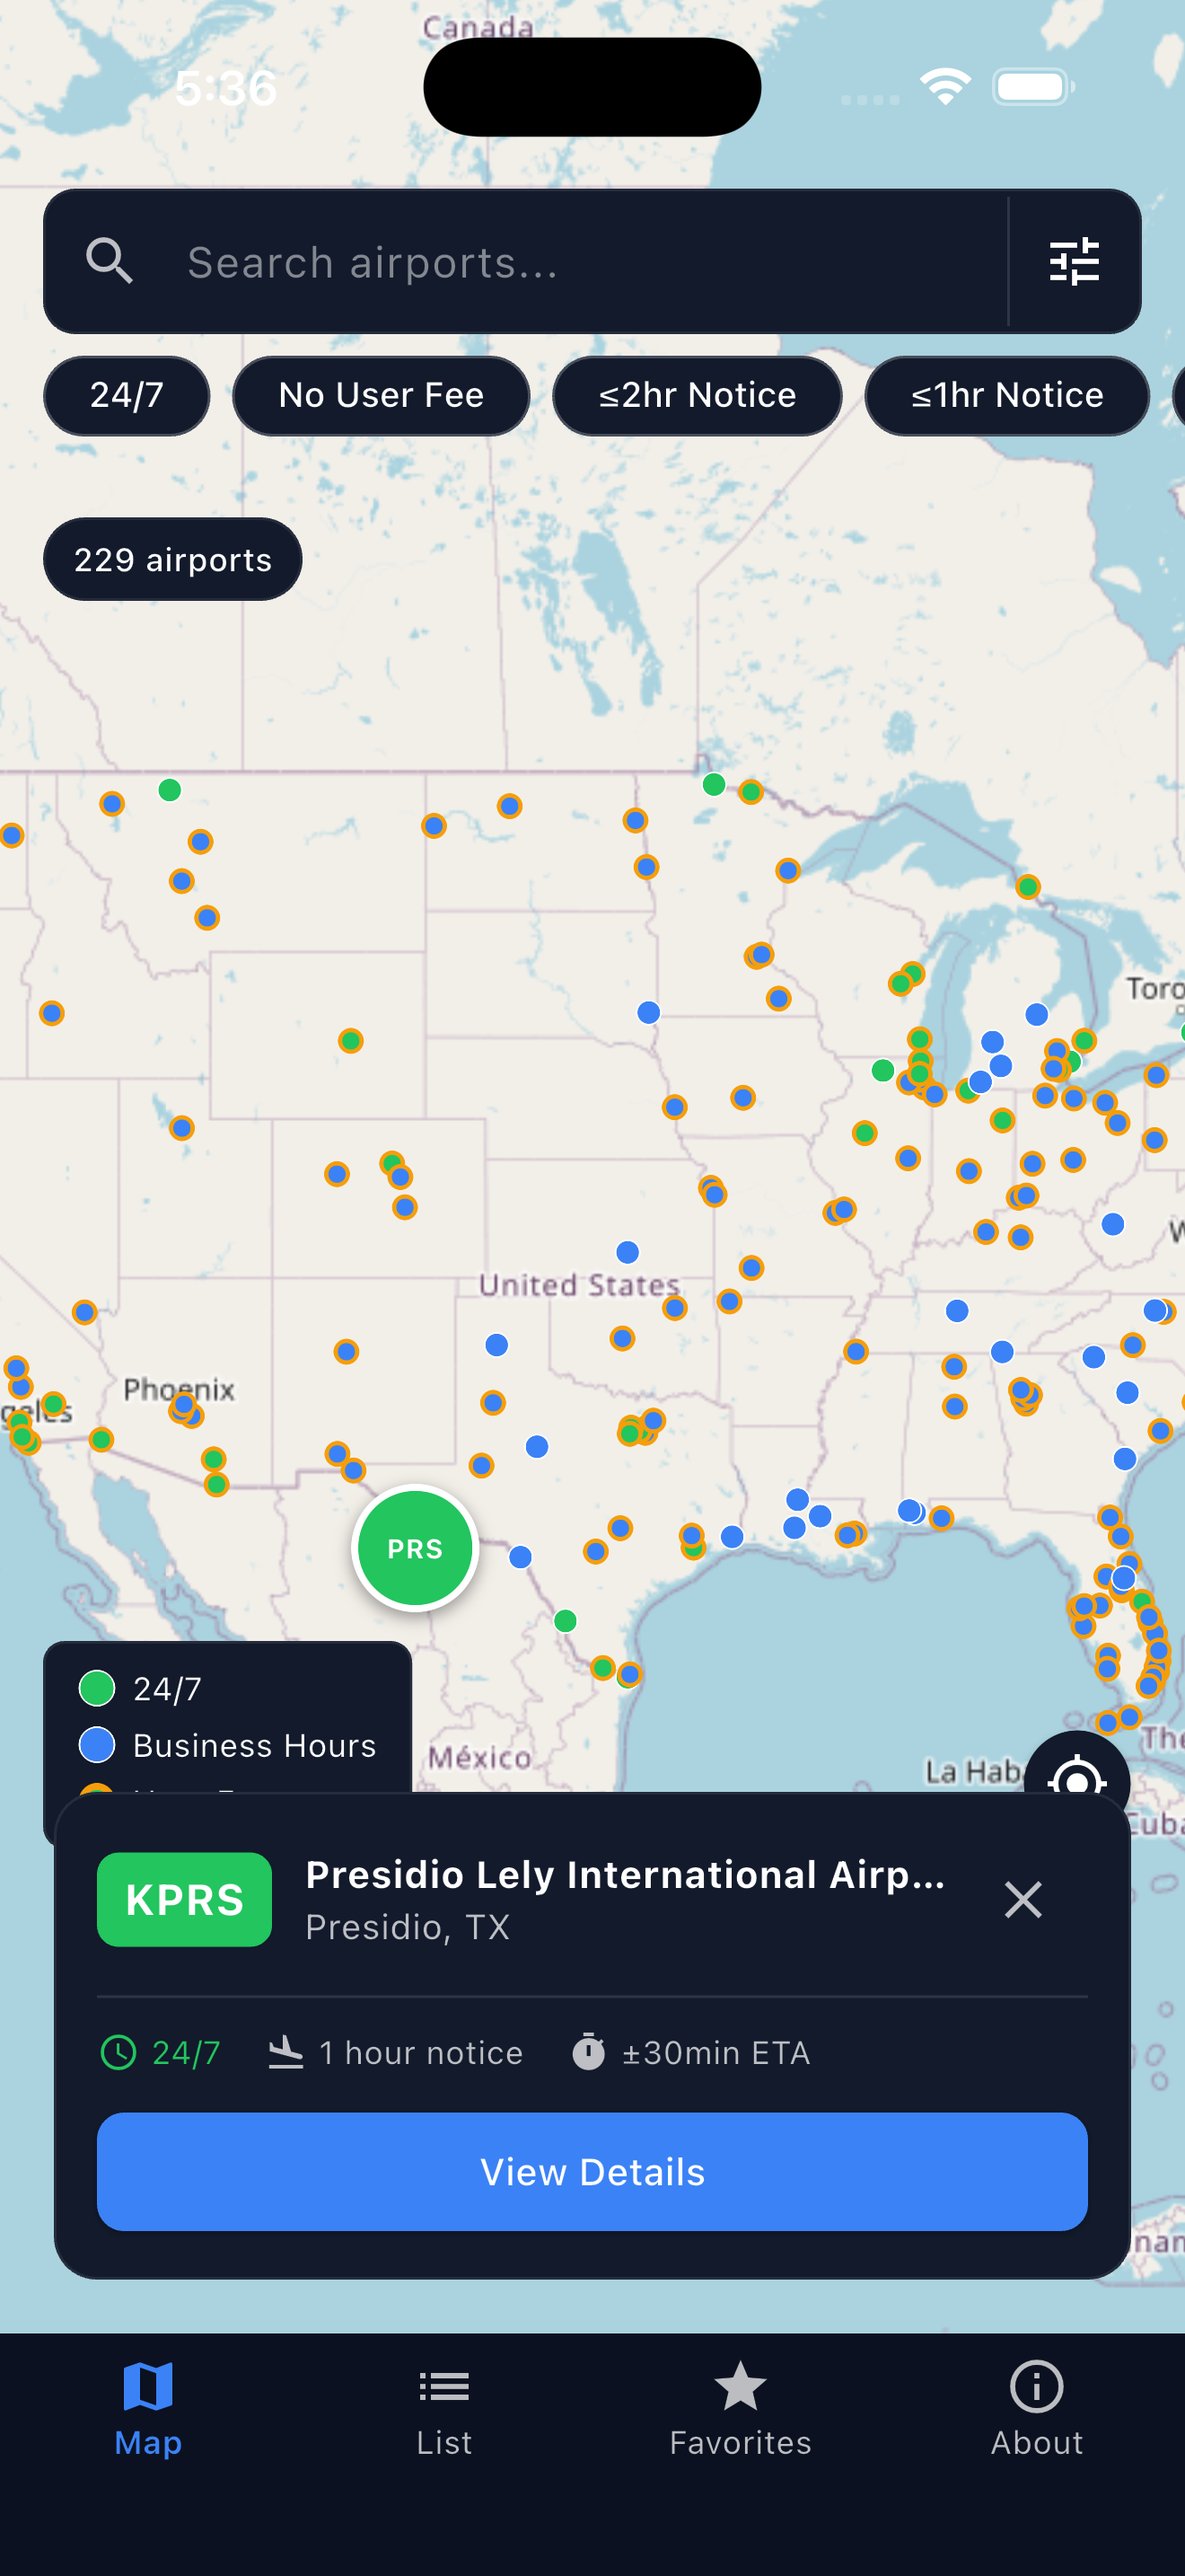
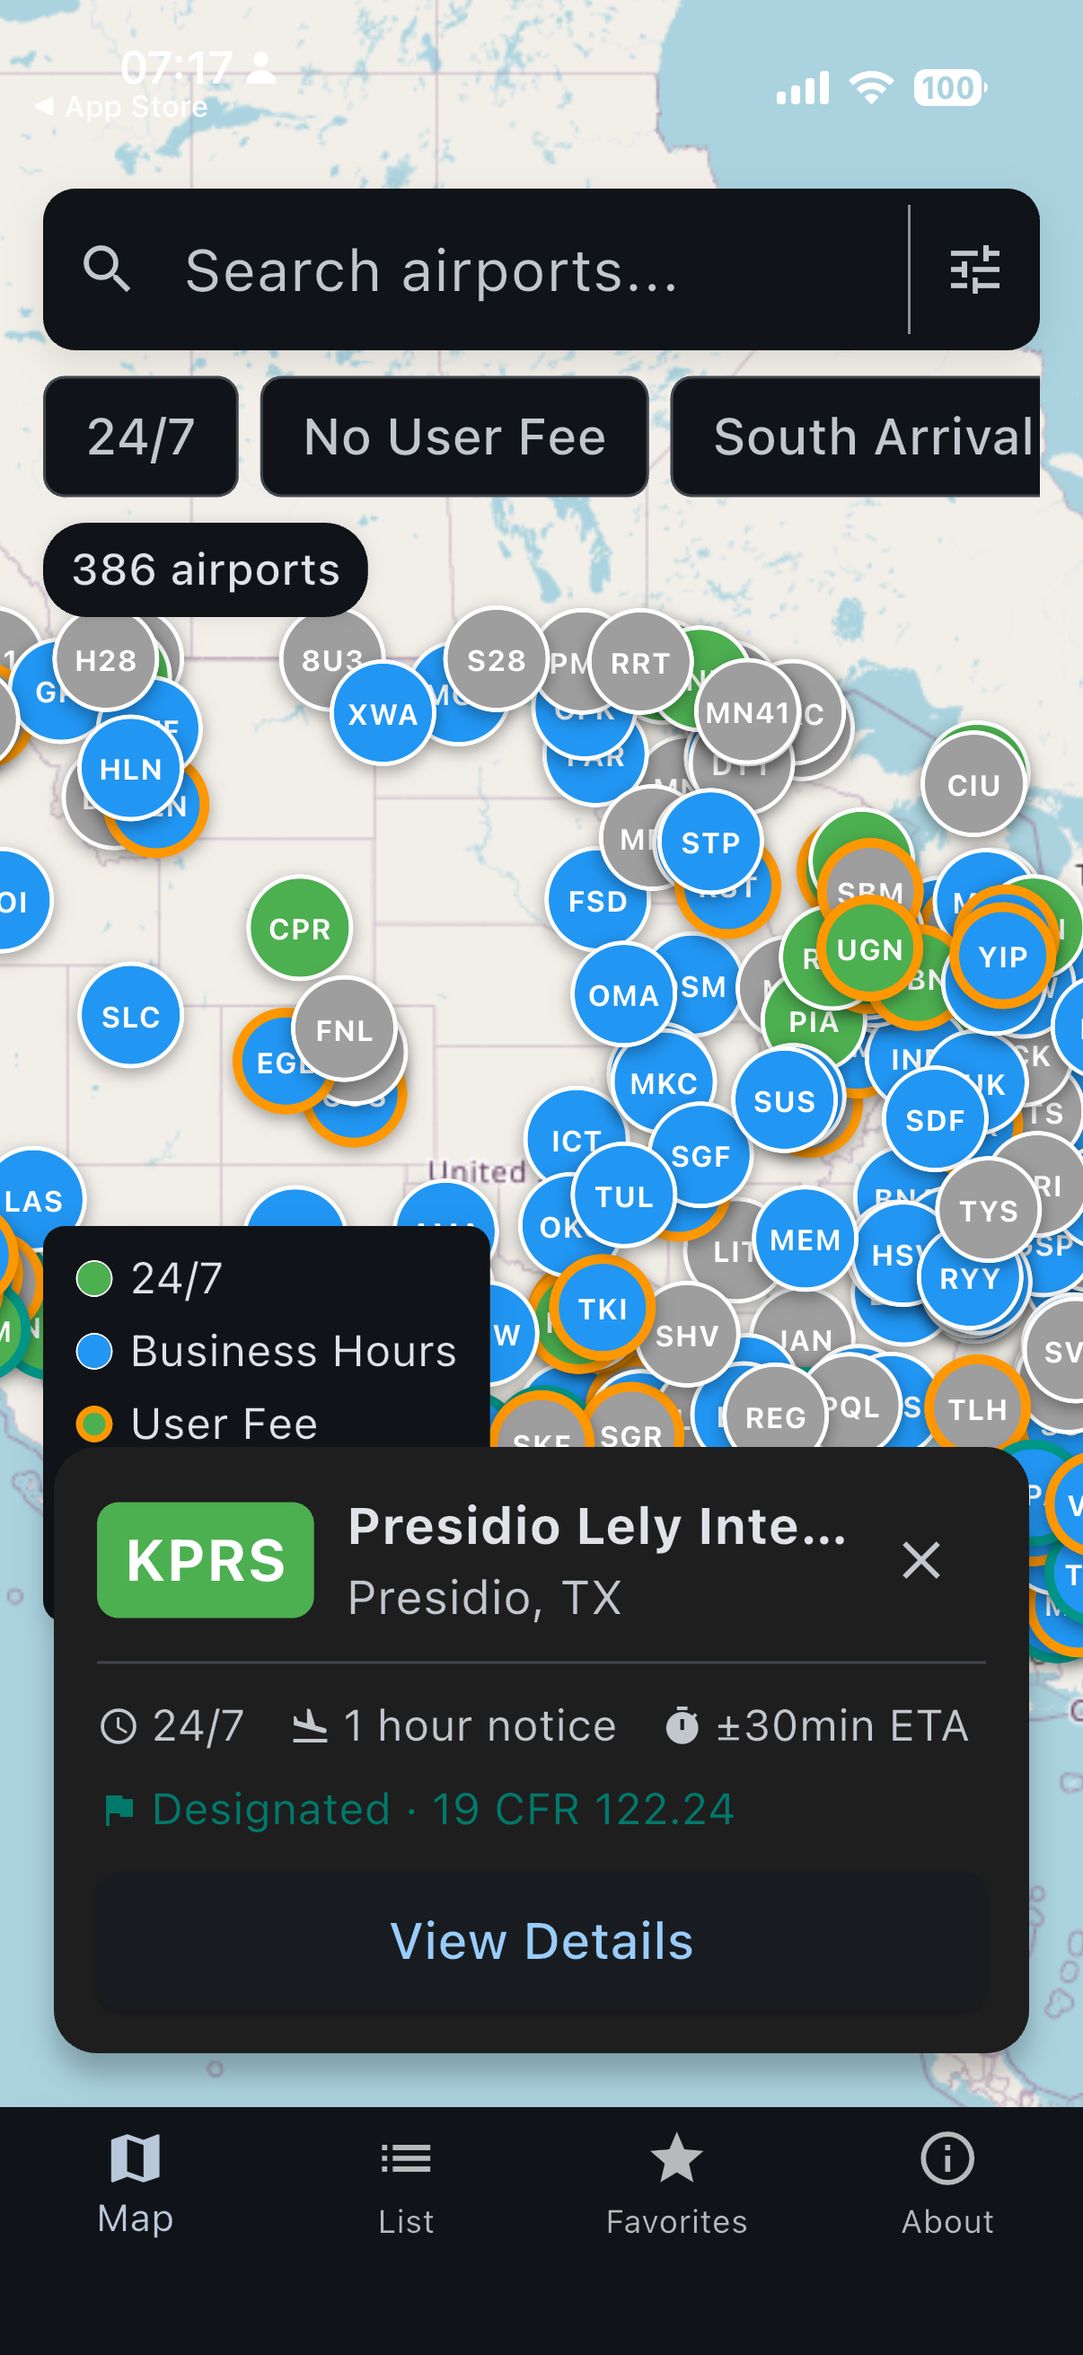
Update GA Customs Inside-the-app screenshots
Replace the five public/ga-customs product shots with Mark's newer
device captures (map+KPRS, hours, process/reviews, favorites, about).

diff --git a/app/ga-customs/page.tsx b/app/ga-customs/page.tsx
@@ -109,7 +109,7 @@ const SCREENSHOTS = [
   },
   {
     src: "/ga-customs/03-kprs-process-reviews.png",
-    alt: "KPRS — inspection process, pilot reviews, offline PDF",
+    alt: "KPRS — designated airport, inspection process, pilot reviews",
     label: "Process & reviews",
   },
   {
